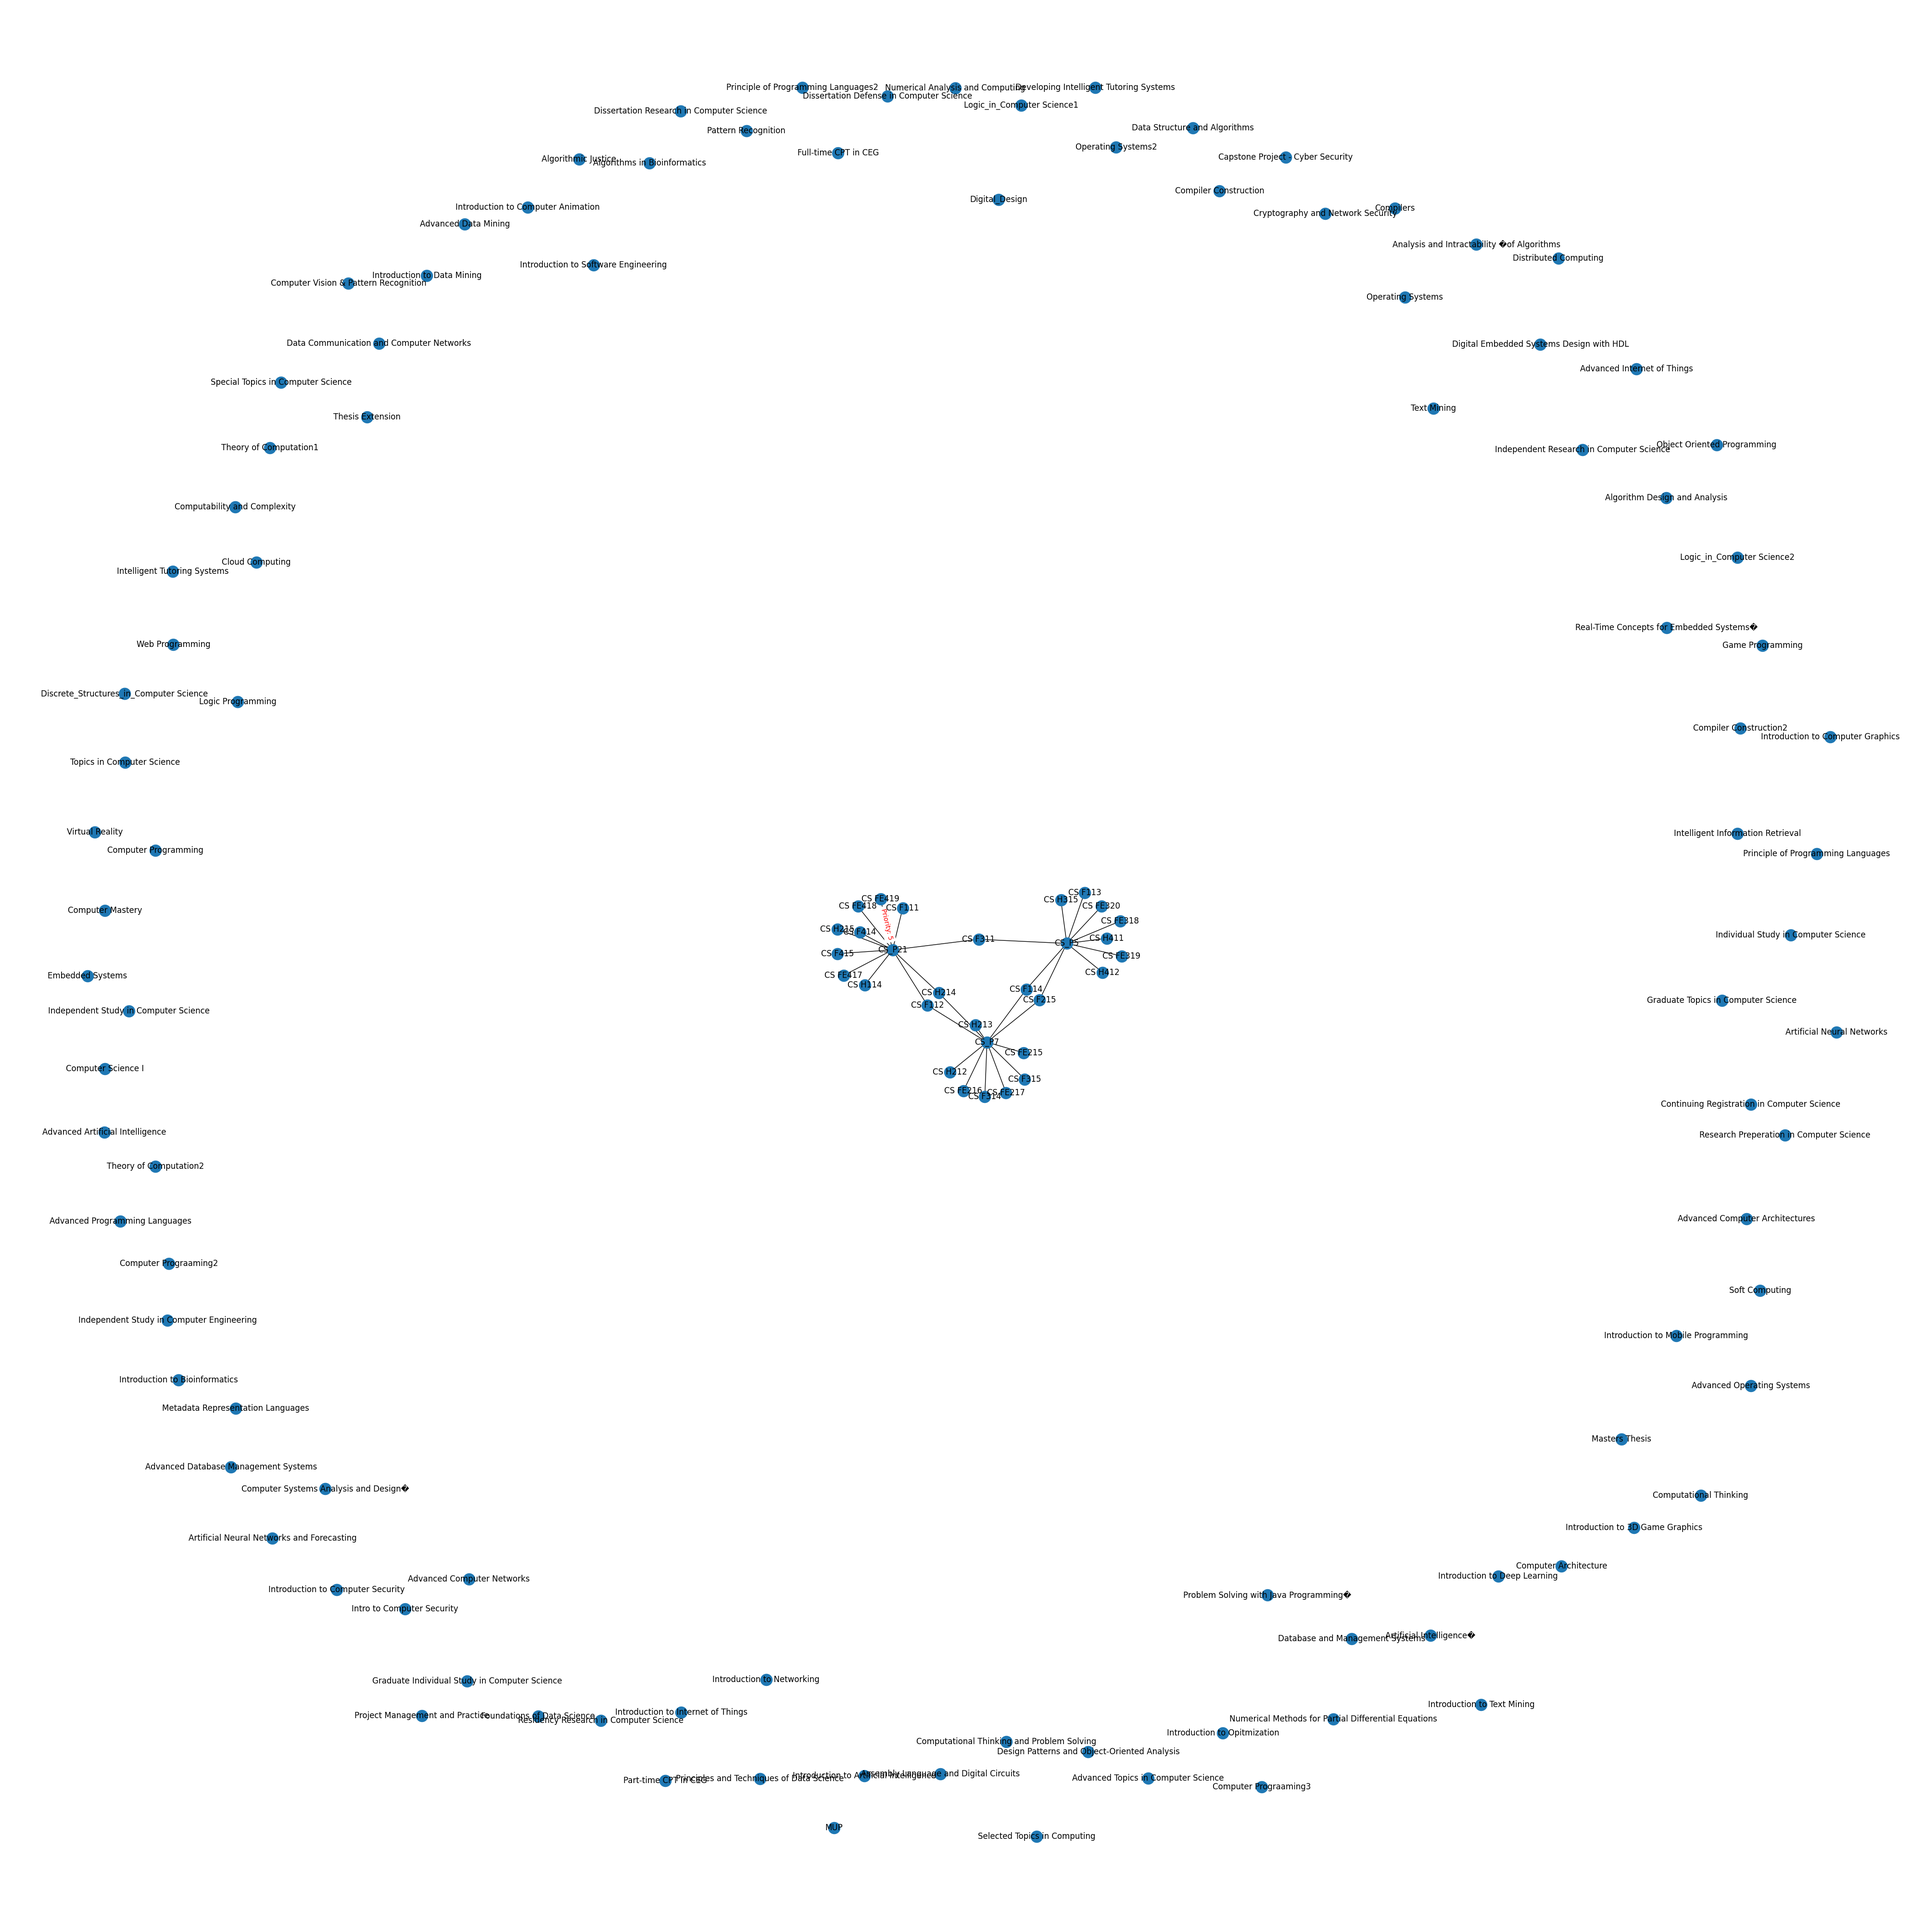
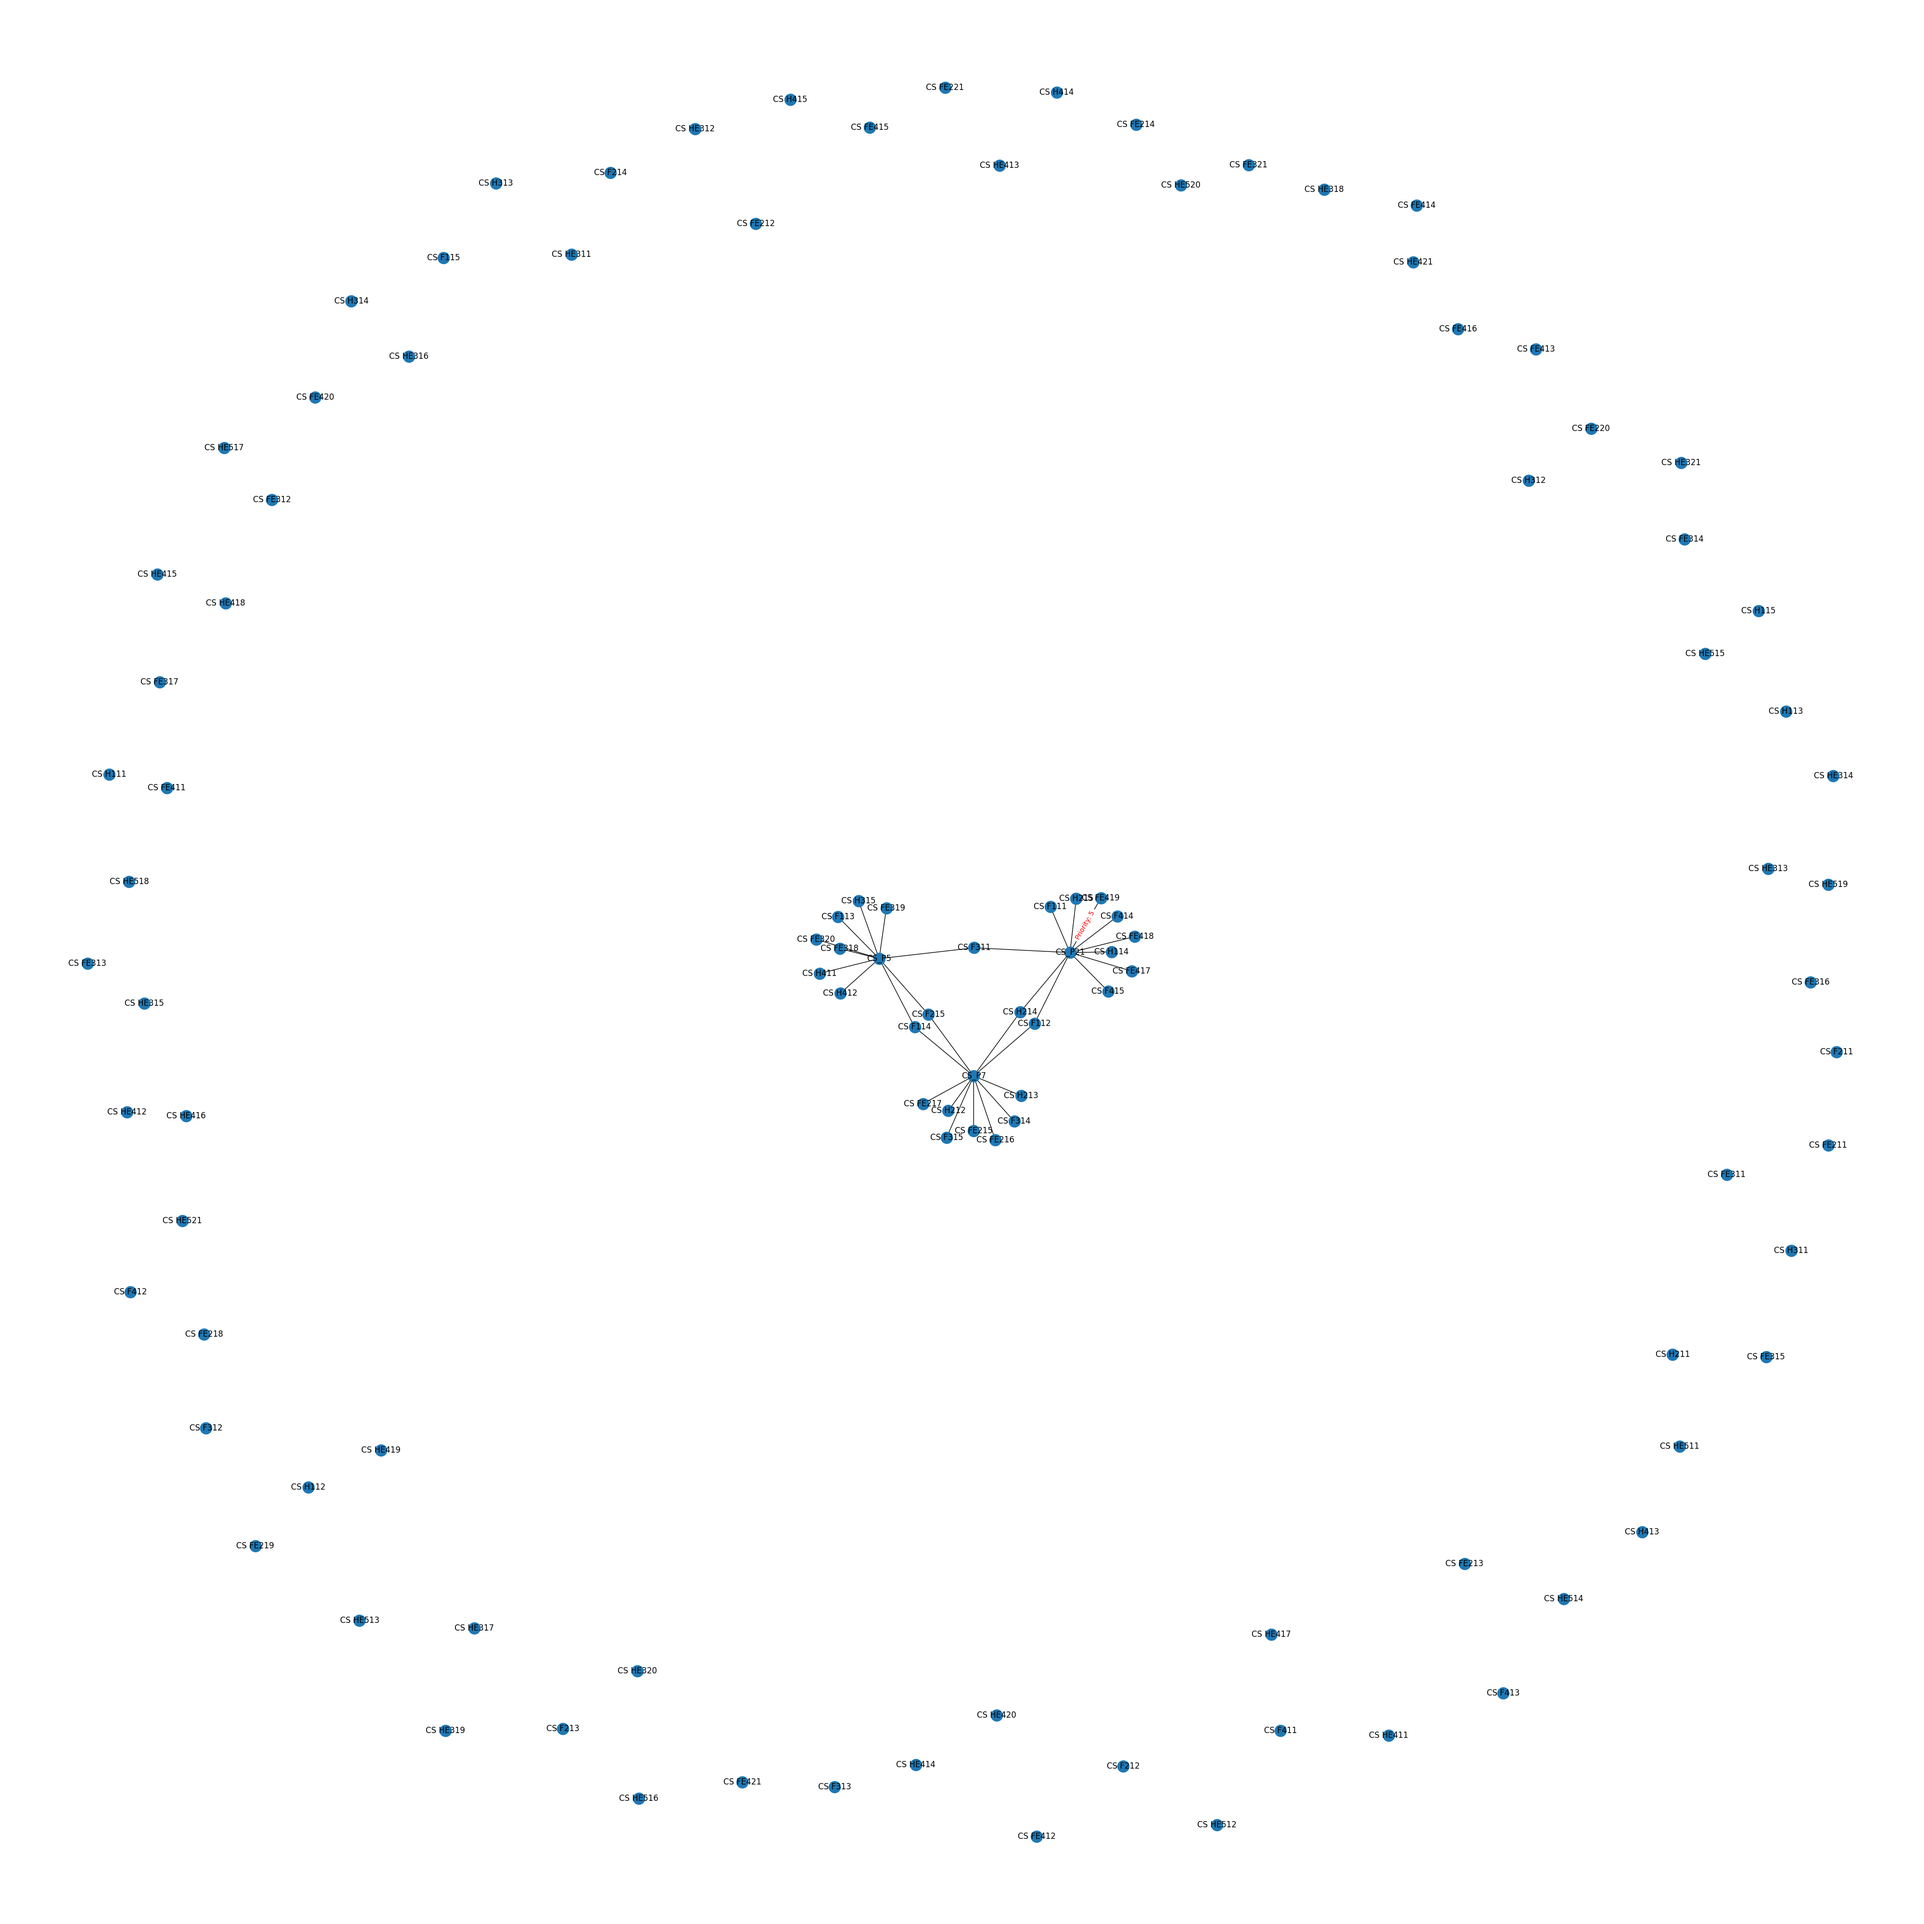
Updated Graph

diff --git a/Graph_OptimizationV3.py b/Graph_OptimizationV3.py
@@ -9,7 +9,7 @@ print(G)
 pos = nx.spring_layout(G)
 
 for course in courselist:
-    G.add_node(course.getName())
+    G.add_node(course.getCourseCode())
 
 for professor in professorList:
     professorID = professor.getID()
